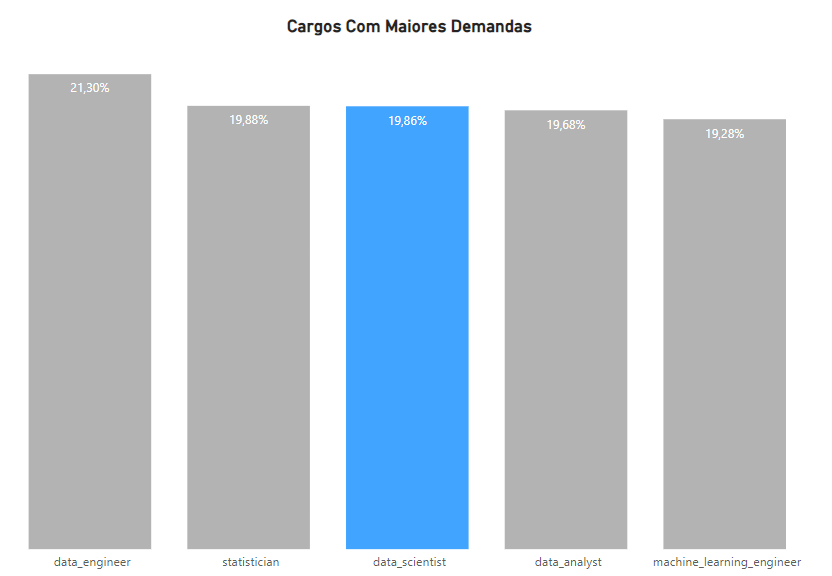
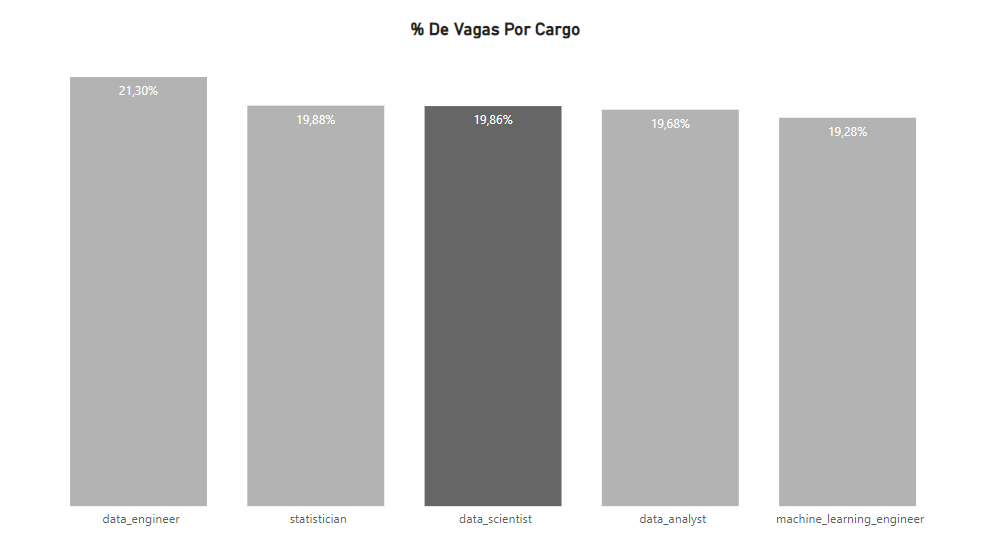
final

Changed region(s): [[0.0312, 0.1239, 0.75, 0.9909], [0.7812, 0.1858, 0.9688, 0.9909], [0.3438, 0.031, 0.6562, 0.0929]]

diff --git a/README.md b/README.md
@@ -5,6 +5,12 @@ O mercado de Dados está em contante crescimento, é uma área relativamente nov
 
 Este projeto visa analisar dados e possiveis tendências para vagas de trabalho em Ciência de Dados.
 
+## Sobre o projeto
+O projeto foi separado em duas etapas: 
+- Limpeza e pré-processamento de dados ([aqui](code/EDA.ipynb)), utilizando Python.
+- Vizualização utilizando Power BI
+
+
 ## Dados
  Os dados aqui utilizados foram fornecidos pelo [Kaggle](https://www.kaggle.com/datasets/brsahan/data-science-job) e contêm campos essenciais para a análise, como cargo, empresa, local da empresa, faixa salarial etc...
 
@@ -12,9 +18,63 @@ Este projeto visa analisar dados e possiveis tendências para vagas de trabalho 
 
 ## Problema de negócio
 Nosso objetivo com esta análise é comparar as vagas para ciêntista de dados com outros cargos e identificar os melhores padões para entrar na área.
-Para isso responderemos algumas questões:
-- **Análise de Tendências:** Examinaremos as tendências na demanda por várias habilidades em funções de ciência de dados.
-- **Análise de Salários:** Compararemos faixas salariais para cargos de ciência de dados em empresas e locais.
-- **Análise de Localização:** Identificaremos regiões com alta demanda por profissionais de ciência de dados.
-- **Análise de Lacuna de Habilidades:** Determinaremos as habilidades mais procuradas no setor de ciência de dados.
 
+## Resultado
+Primeiramente vamos iniciar com uma visão geral da distribuição dos cargos do nosso projeto.
+#### Visual 1
+![geral](docs/demanda_cargo.png)
+
+- Aqui podemos observar que para esta análise a maior parte das vagas estão concentradas para Engenheiro de Dados, já Cientista de Dados (o foco desta análise) apresenta cerca de quase 20% das vagas analisadas. A diferença entre os cargos não são tão significativos, mas é algo a ser mencionado.
+
+### Analisando as vagas para Cientista de Dados
+#### Visual 2
+!['datascientist'](docs/demanda_exp.png)
+
+- 24% das vagas anunciadas são destinadas à proficionais da categoria junior, isso mostra que a barreira de entrada para oculpar os cargos não está tão alta, referente aos anos que estamos analisando. 
+- O que pode fortalecer esta observação é o fato de 10% das vagas não exigir experiência (possivelmente destinadas à estagiários).
+
+#### Visual 3
+!['vis3'](docs/modalidade_vaga.png)
+
+- O presencial ainda continua possuindo a maior quantidade de vagas para Cientistas de Dados.
+
+Dentre as habilidades desejadas para um ciêntista de dados, segue o gráfico que mostra a porcentagem do nível de desejo das empresas para com essa vaga:
+#### Visual 4
+!['vis4'](docs/hab_desejadas_ds.png)
+
+- No pódio está conhecimento em ciência de dados no geral (conceitos estatísticos, modelagem de dados, mensuração e escalabilidade de dados etc...)
+- Em seguida Engenharia, possivelmente Engenharia de Atributos (Coleta e limpeza de dados, transformação de dados), a transformação de dados brutos para um estado mais adeuqado para a modelagem.
+- Machine Learning e Inteligência Artificial, apesar de serem de suma importância não ultrapassam as duas habilidades acima.
+- Análise em ultima posição, pois apesar um Ciêntista de Dados utilizar da análise em algumas situações, seu foco principal está concentrado em resolver perguntas específicas.
+  
+### Dentre as vagas analisadas, quais países estão recrutando mais Cientistas de Dados? E quais países pagam melhor?
+
+#### Visual 5
+
+!['vis5'](docs/ranking_paises_ds.png)
+
+#### Visual 6
+
+!['vis6'](docs/media_salarial_pais.png)
+
+- India se mostra um destaque, além de  ter a maior quantidade de vagas, possui uma das maiores médias de salário anual.
+- Nos Estados Unidos também possui muitas vagas, porém ele surpreende ao ser o país com o menor pagamento em relação aos demais.
+- A China dispões da menor porcentagem de vagas, entretanto demonstra ter a terceira maior média salarial.
+- A Alemanha por sua vez empata com a India em termmos de salário anual.
+
+### Como o nível de experiência impacta nos tipos de emprego?
+
+#### Visual 7
+!['vis7'](docs/nivel_exp_tipo_trab.png)
+
+#### Visual 8
+!['vis8'](docs/tipo_emprego_ds_salario.png)
+
+- Freelancer tende a pagar mais, tendo como principais alvos Cientistas de Dados de nível pleno e executivos.
+- Proficionais de meio período também são bastante requisitados, principalmente juniors e plenos.
+- Para os cargos temporários as vagas para junior tem mais abrangência.
+- A segunda melhor oportunidade para juniors são empregos com tempo integral, e existe uma menor demanda para seniors também.
+
+
+# Autor
+Olá! Meu nome é Diego Armando Teles de Carvalho, sou cientista de dados, apaixonado por ciência de dados e business inteligence. Confira meu perfil no [Linkedin](https://www.linkedin.com/in/diegoarmandods/) e meus outros trabalhos no [GitHub](https://github.com/DieGod-DS).
